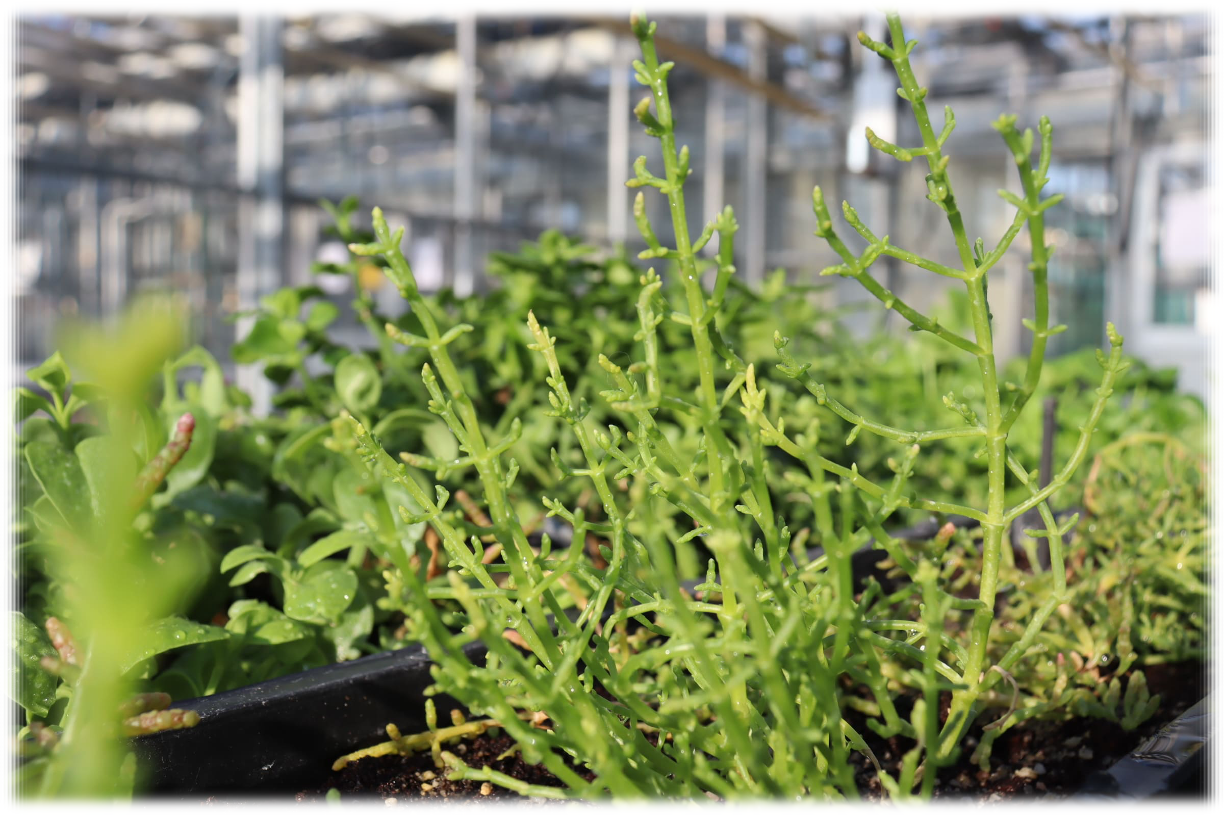
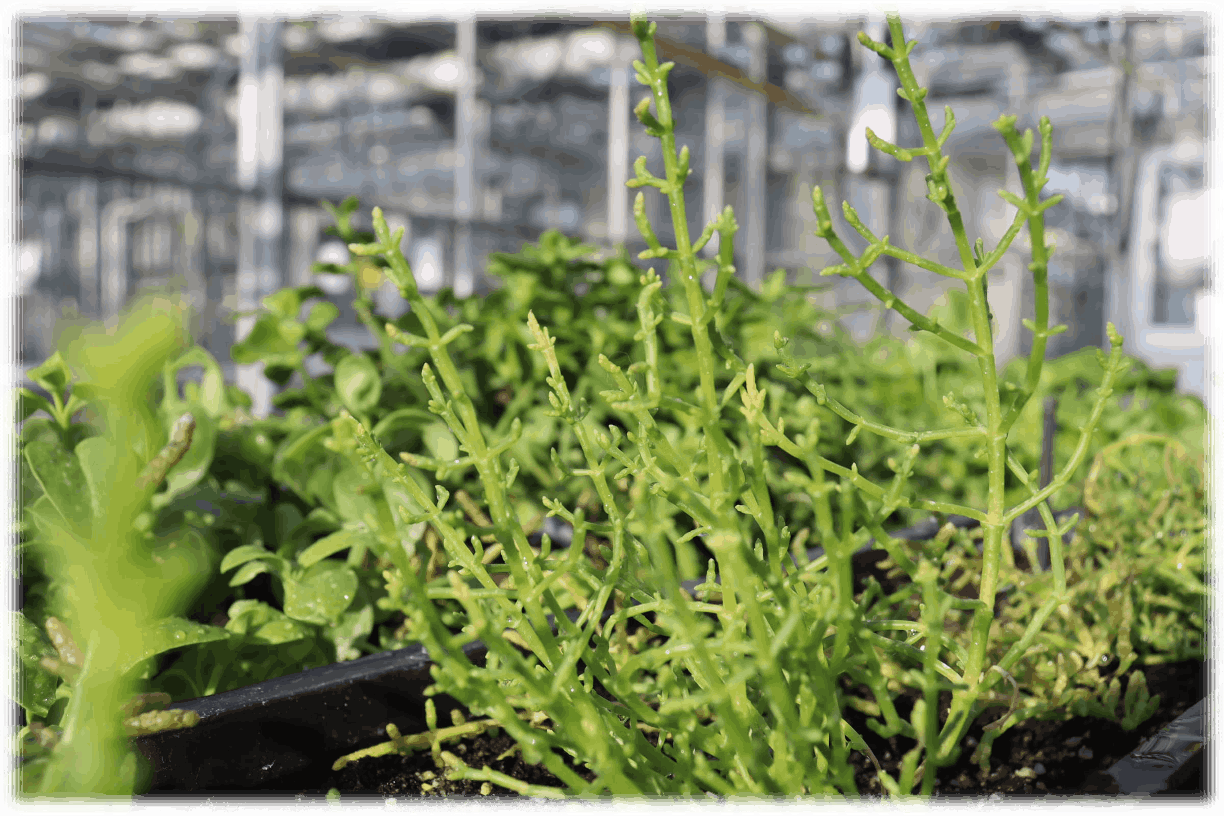
bilder komprimiert

diff --git a/src/data/locations.ts b/src/data/locations.ts
@@ -2,8 +2,8 @@ export const quizLocations = [
   {
     id: "kitchen",
     name: "Future Food Kitchen",
-    //coords: { lat: 52.45510590524545, lon: 13.525163019961198 },  
-    coords: { lat: 52.52668739066162, lon: 13.36037664808089 },
+    coords: { lat: 52.540636660690225, lon: 13.391817612557453 },  
+   // coords: { lat: 52.52668739066162, lon: 13.36037664808089 },
     radius: 100, // richtige coords: { lat: 52.45554951375966, lon: 13.52518413859404 }, 
 
     features: {
